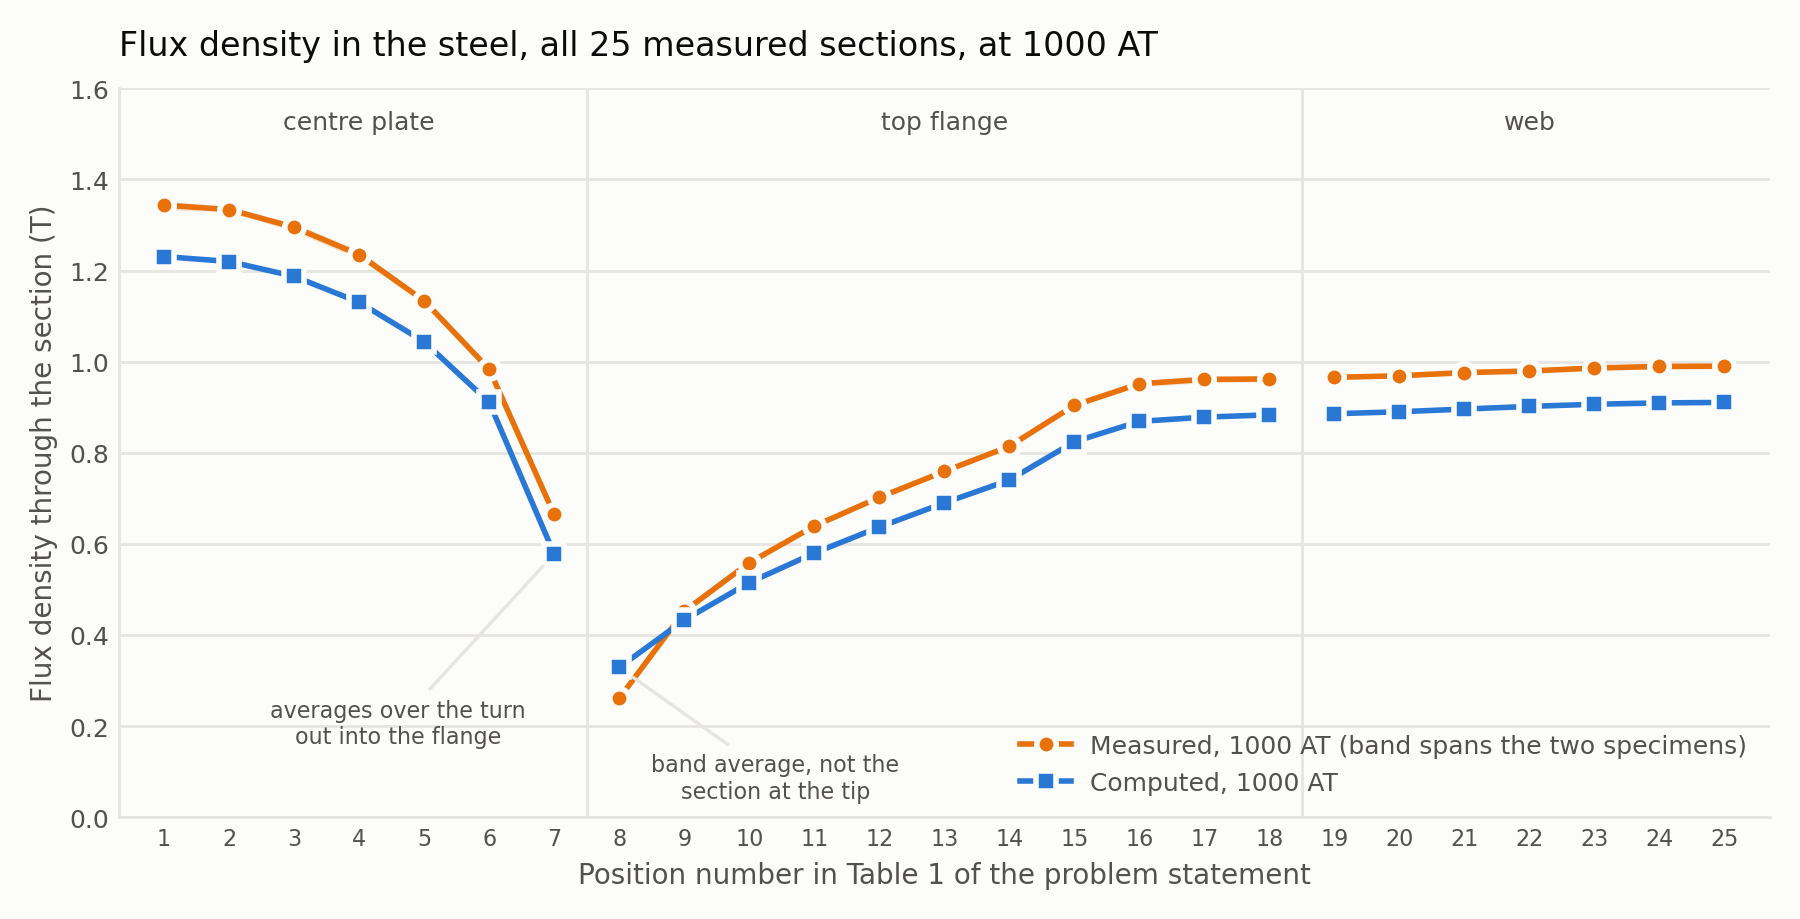
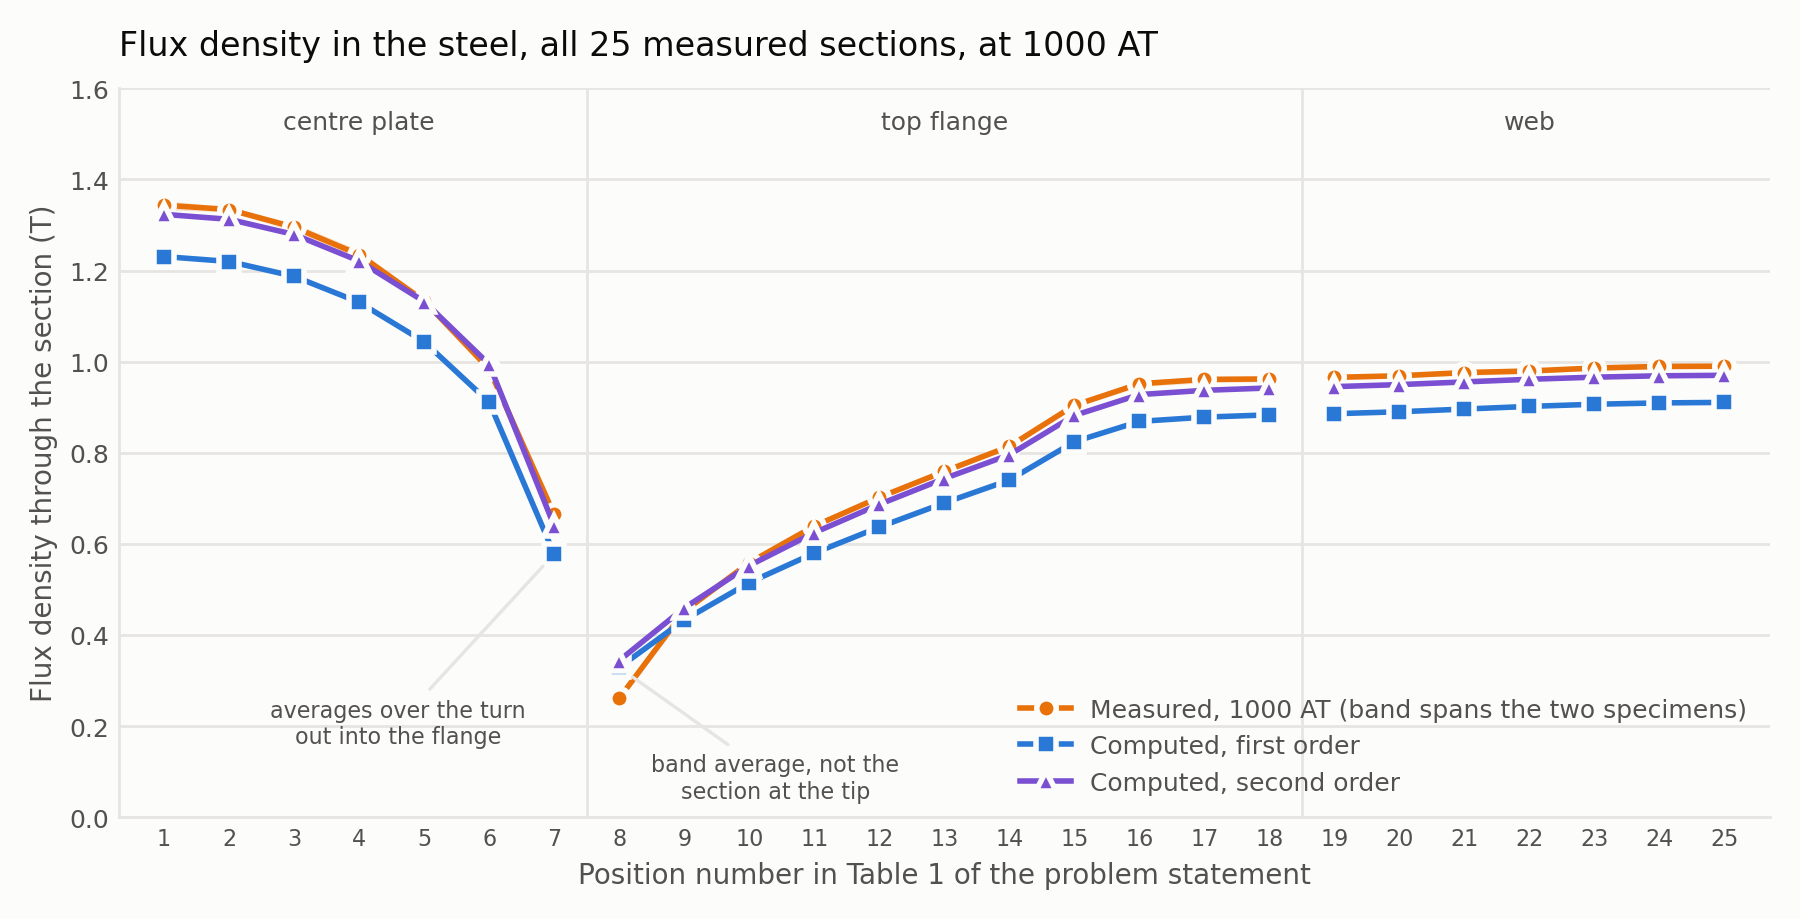
Add results for second order Nedelec. Uses backtracking.

diff --git a/test/tests/electromagnetics/team/problem_13/plot_team13_flux.py b/test/tests/electromagnetics/team/problem_13/plot_team13_flux.py
@@ -8,8 +8,9 @@ embedded in doc/content/problems/team_problem_13.md:
     team13_positions.png  every one of the 25 sections of Table 1
 
 Both show the 1000 AT case, which is the one the problem statement publishes
-measurements for. The benchmark's other excitation, 3000 AT, has no measured column
-to be read against, so it is left off unless --csv-3000 asks for it.
+measurements for, and the second order Nedelec solution of it alongside. The
+benchmark's other excitation, 3000 AT, has no measured column to be read against,
+so it is left off unless --csv-3000 asks for it.
 
 The measurements were taken on two specimens whose plate-to-channel gap came out at
 0.52 mm and 0.47 mm against a nominal 0.5 mm, and that gap carries most of the
@@ -45,8 +46,9 @@ TEXT_PRIMARY = "#0b0b0b"
 TEXT_SECONDARY = "#52514e"
 GRID = "#e6e5e1"
 MEASURED = "#e8710a"
-COMPUTED = "#2a78d6"      # 1000 AT
-COMPUTED_3000 = "#7b4fd1"  # 3000 AT
+COMPUTED = "#2a78d6"        # the base case: 1000 AT, first order
+COMPUTED_SECOND = "#7b4fd1"  # second order Nedelec
+COMPUTED_3000 = "#12866e"    # 3000 AT
 
 # Table 1 of the problem statement: the 25 sections, in the order it numbers them,
 # with the postprocessor reporting each and the flux density measured on the two
@@ -117,12 +119,13 @@ def read_values(path, required=True):
 
 def _suffix(cases):
     """Name the excitation in the title when there is only one to name."""
-    return f", at {cases[0][0]} AT" if len(cases) == 1 else ""
+    amps = {c[0] for c in cases}
+    return f", at {amps.pop()} AT" if len(amps) == 1 else ""
 
 
 def _top(cases):
     """A common y limit for both figures, so they can be read against each other."""
-    peak = max(max(v for k, v in values.items() if k != "time") for _, values, _, _ in cases)
+    peak = max(max(v for k, v in values.items() if k != "time") for _, _, values, _, _ in cases)
     peak = max(peak, max(max(p[4], p[5]) for p in POSITIONS))
     return 0.1 * (int(peak / 0.1) + 3)
 
@@ -143,9 +146,9 @@ def _style(ax):
 def _series(ax, xs, rows, cases, label=False):
     """Draw the measured band and one computed curve per excitation.
 
-    cases is a list of (ampere turns, values, colour, marker); labels are attached
-    only on the first call so that a figure split into several runs of positions
-    still gets one legend entry per series.
+    cases is a list of (ampere turns, legend label, values, colour, marker); labels
+    are attached only on the first call so that a figure split into several runs of
+    positions still gets one legend entry per series.
     """
     lower = [min(r[4], r[5]) for r in rows]
     upper = [max(r[4], r[5]) for r in rows]
@@ -153,10 +156,10 @@ def _series(ax, xs, rows, cases, label=False):
     ax.plot(xs, [0.5 * (r[4] + r[5]) for r in rows], color=MEASURED, linewidth=2.0,
             marker="o", markersize=7, markeredgecolor=SURFACE, markeredgewidth=2.0,
             label="Measured, 1000 AT (band spans the two specimens)" if label else None)
-    for amp, values, colour, marker in cases:
+    for _, series_label, values, colour, marker in cases:
         ax.plot(xs, [values[r[1]] for r in rows], color=colour, linewidth=2.0,
                 marker=marker, markersize=7, markeredgecolor=SURFACE, markeredgewidth=2.0,
-                label=f"Computed, {amp} AT" if label else None)
+                label=series_label if label else None)
 
 
 def plot_plate(cases, output):
@@ -219,7 +222,7 @@ def plot_positions(cases, output):
     ]
     for number, note, xytext in notes:
         row = next(p for p in POSITIONS if p[0] == number)
-        ax.annotate(note, xy=(number, cases[0][1][row[1]]), xytext=xytext,
+        ax.annotate(note, xy=(number, cases[0][2][row[1]]), xytext=xytext,
                     textcoords="data", color=TEXT_SECONDARY, fontsize=8,
                     ha="center", va="top",
                     arrowprops=dict(arrowstyle="-", color=GRID, linewidth=1.2,
@@ -245,21 +248,22 @@ def plot_positions(cases, output):
 
 def report(cases):
     header = "  %-4s %-8s %-9s" % ("No.", "part", "position")
-    for amp, _, _, _ in cases:
-        header += " %11s" % f"{amp} AT"
+    for _, series_label, _, _, _ in cases:
+        header += " %13s" % series_label.replace("Computed, ", "").replace("Computed", "computed")
     header += " %9s %9s %8s" % ("G=0.52", "G=0.47", "error")
     print(header)
     worst = (0.0, None)
     for number, key, part, where, g52, g47 in POSITIONS:
         mean = 0.5 * (g52 + g47)
-        err = 100.0 * (cases[0][1][key] / mean - 1.0)
+        err = 100.0 * (cases[0][2][key] / mean - 1.0)
         if abs(err) > abs(worst[0]):
             worst = (err, number)
         line = "  %-4d %-8s %-9s" % (number, part, f"{where:g} mm")
-        for _, values, _, _ in cases:
-            line += " %11.4f" % values[key]
+        for _, _, values, _, _ in cases:
+            line += " %13.4f" % values[key]
         print(line + " %9.3f %9.3f %7.1f%%" % (g52, g47, err))
-    print("  at 1000 AT, worst departure from the measured mean: %+.1f%% at position %d" % worst)
+    print("  %s: worst departure from the measured mean %+.1f%% at position %d"
+          % (cases[0][1], worst[0], worst[1]))
 
 
 def main():
@@ -268,14 +272,26 @@ def main():
                         help=f"1000 AT postprocessor CSV (default: {DEFAULT_CSV})")
     parser.add_argument("--csv-3000", type=Path, default=None,
                         help="3000 AT postprocessor CSV; drawn alongside 1000 AT when given")
+    parser.add_argument("--csv-second-order", type=Path, default=None,
+                        help="second order Nedelec postprocessor CSV; drawn alongside when given")
     parser.add_argument("--outdir", type=Path, default=DEFAULT_OUTDIR,
                         help=f"directory for the figures (default: {DEFAULT_OUTDIR})")
     parser.add_argument("--no-plot", action="store_true", help="only print the comparison")
     args = parser.parse_args()
 
-    cases = [(1000, read_values(args.csv), COMPUTED, "s")]
-    if args.csv_3000 is not None:
-        cases.append((3000, read_values(args.csv_3000), COMPUTED_3000, "^"))
+    second = read_values(args.csv_second_order) if args.csv_second_order else None
+    at3000 = read_values(args.csv_3000) if args.csv_3000 else None
+    # Name the base series for whatever it is being contrasted with.
+    base = "Computed"
+    if second is not None:
+        base = "Computed, first order"
+    elif at3000 is not None:
+        base = "Computed, 1000 AT"
+    cases = [(1000, base, read_values(args.csv), COMPUTED, "s")]
+    if second is not None:
+        cases.append((1000, "Computed, second order", second, COMPUTED_SECOND, "^"))
+    if at3000 is not None:
+        cases.append((3000, "Computed, 3000 AT", at3000, COMPUTED_3000, "D"))
 
     if not args.no_plot:
         plot_plate(cases, args.outdir / "team13_flux.png")

diff --git a/doc/content/problems/team_problem_13.md b/doc/content/problems/team_problem_13.md
@@ -207,6 +207,31 @@ itself, leaving the residual at exactly its starting value before it blows up. C
 steel and marking only the free space fails the same way, and adding the marker on top of a working mass term
 changes nothing measurable.
 
+### Newton damping id=damping
+
+The reluctivity rises fifteenfold between $B = 1.5$ T and $1.8$ T, and an undamped Newton update aimed at an
+element sitting in that knee overshoots to the far side of it. The next update brings it back, and the
+iteration settles into a limit cycle rather than converging. It shows up whenever the discretisation resolves
+the knee more sharply, or the steel is driven further into it:
+
+| Case | Undamped | With backtracking |
+| :- | -: | -: |
+| 1000 AT, first order | 10 iterations, $1.1 \times 10^{-8}$ | unchanged: the full step is always accepted |
+| 3000 AT, first order | 50 iterations, stalls at $3 \times 10^{-3}$ | 11 iterations, $7.6 \times 10^{-9}$ |
+| 1000 AT, second order | 50 iterations, stalls at $8.8 \times 10^{-3}$ | 10 iterations, $3.2 \times 10^{-10}$ |
+
+`line_search = backtracking` on `MFEMNewtonNonlinearSolver` shortens the update until the residual norm meets
+an Armijo sufficient-decrease condition. The shipped 1000 AT first order case never needs it - the full step
+always passes, and the results are unchanged to the last digit - but the two harder cases go from not
+converging at all to converging in about the same number of iterations as the easy one. The second order case
+went from 50 iterations and 56 minutes without converging to 10 iterations and 14 minutes with.
+
+Worth knowing if the same thing shows up elsewhere: the stalled solutions were not wrong, just unconverged by
+the residual test. Every reported value in the 50-iteration second order run agreed with the converged one to
+$3.7 \times 10^{-5}$, and the 3000 AT run agreed to $2 \times 10^{-6}$ between iterations 20 and 50. The
+field settles long before the residual does, because what is chattering is a handful of elements whose
+reluctivity flips either side of the knee without moving the flux.
+
 !listing canary/test/tests/electromagnetics/team/problem_13/team13.i
 
 ## Files id=files
@@ -260,12 +285,8 @@ The test runs the 1000 AT case. The benchmark's other excitation is a command li
 ./plot_team13_flux.py --csv-3000 OutputData/TEAM13CSV_3000AT.csv
 ```
 
-At 3000 AT the non-linear solve does not meet its convergence test. It falls to a relative residual of about
-$3 \times 10^{-3}$ in a dozen iterations and then sits in a limit cycle between $2.5 \times 10^{-3}$ and
-$8 \times 10^{-3}$, which is what an undamped Newton iteration does when a handful of elements chatter across
-the knee of the B-H curve. The field itself is settled well before that: every reported value agrees to
-$2 \times 10^{-6}$ between iteration 20 and iteration 50, so the numbers above can be relied on even though
-the solver reports failure. It takes about four minutes, against one for the 1000 AT case.
+It converges in 11 Newton iterations and takes about the same time as the 1000 AT case. That is down to the
+line search; see [Newton damping](#damping) below.
 
 ## Results id=results
 
@@ -386,6 +407,31 @@ reported figure to 0.329 T. Position 7 is the same story at the top of the plate
 out into the flange: its band runs from 55 mm to the top of the plate at 63.2 mm and averages over the whole
 of that turn.
 
+### Element order id=element-order
+
+The offset above is spatial discretisation error, and raising the polynomial order removes most of it. Running
+the same mesh with second order Nedelec elements for $\vec{A}$ - `fe_order=SECOND flux_order=FIRST`, which
+also takes the H(div) and L2 spaces carrying the derived fields up an order - gives:
+
+| | First order | Second order |
+| :- | -: | -: |
+| Mean error over the 23 well-posed sections | -8.2% | **-1.6%** |
+| Range | -9.3% to -4.3% | -2.5% to +1.6% |
+| Position 7, at the turn out of the plate | -13.1% | -3.8% |
+| Degrees of freedom | 0.25M | 1.4M |
+| Run time | 1.3 min | 14 min |
+
+That is a better answer than first order reached on any mesh in the [study below](#convergence), including the
+865k element one at -3.8%, and it comes from 210k elements. It confirms what the mesh study implied: the flat
+few percent the first order results sit below the measurements is discretisation error in the gap, not
+something wrong with the model.
+
+Position 8 is the exception and moves the other way, from +25.9% to +31.7%. That is the expected sign. Its
+error is not discretisation but the band average standing in for a plane section, and a more accurate solution
+resolves the climb across that band better, so the average moves further from the value at the section itself.
+
+Second order needs the line search to converge at all; see [Newton damping](#damping).
+
 !media media/team13_flux.png
        id=flux-profile
        caption=Flux density up the centre plate at 1000 AT, positions 1 to 7 of Table 1. The computed profile
@@ -451,9 +497,9 @@ deep into saturation and take a while to walk back out.
 
 ## Notes id=notes
 
-Only the 1000 AT case is exercised by the test suite. The 3000 AT case is tabulated above but is left out of
-the test, and off the figures, because it takes four times as long, its solver does not formally converge, and
-there are no measurements to read it against; see [Running](#running).
+The test suite runs the 1000 AT first order case. The second order case is a test too, marked heavy so that it
+is only picked up by `./run_tests --heavy`, since it takes a quarter of an hour. The 3000 AT case is tabulated
+above but is not a test and is left off the figures, there being no measurements to read it against.
 
 ## References id=references
 
